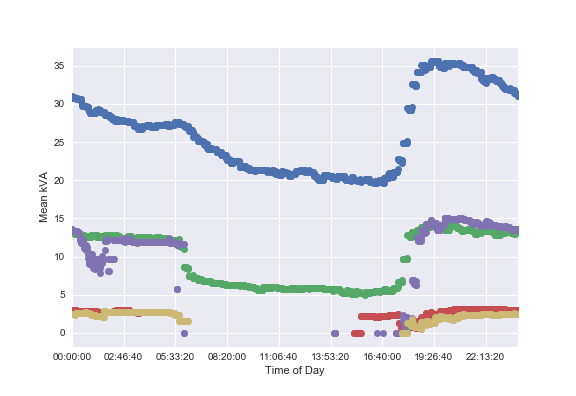
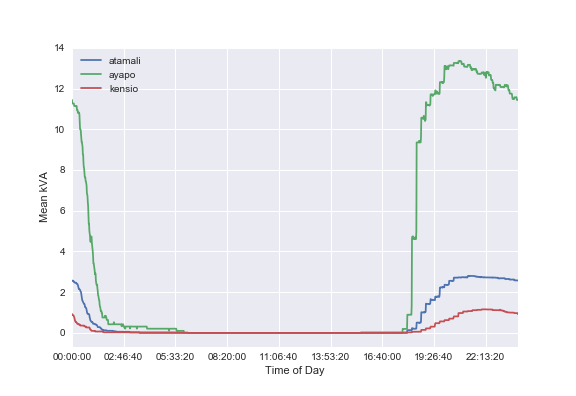
updates plots and outline

Changed region(s): [[0.0938, 0.1515, 0.9062, 0.8485], [0.0938, 0.1515, 0.125, 0.1818], [0.0938, 0.0909, 0.125, 0.1212]]

diff --git a/outline.md b/outline.md
@@ -141,6 +141,7 @@ author: Daniel Soto
     - Specification sheets report fuel use at 25%, 50%, 75%, and 100% of the full load.
     - We assume a linear relationship between fuel use and generator load.
     - We take the published curves for fuel use and extrapolate to the low loads observed on microgrids
+    - We divide the fuel rate by the apparent power to get the instantaneous specific fuel consumption
     - Using these fits, we can create a time series of fuel rates from the observed load data
     - Following the method used to construct a load duration curve, we create a specific fuel consumption duration curve
     - This curve has the specific fuel consumption in liters per kVA-hour as the independent variable
@@ -157,17 +158,113 @@ author: Daniel Soto
 
 ## Data Coverage
 
-- The data cover from two to three months in the villages.
-    - While there are gaps in the data, there is valid data for at least 86% of the time in all villages.
+- We have confidence in the data for 86% to 93% of the observation period for the microgrids
+    - The data cover from two to three months in the villages.
+    - We have direct time series measurements for 9 to 23 percent of the observation period
+    - We have messages indicating the grid going off and back on that bring coverage up to 86 to 93 percent.
     - We have no robust way of the presence or absence of power in the data gaps with the data set available.
 
-| Village   | Start Date | End Date   |   Duration |   Coverage |
-|:----------|:-----------|:-----------|-----------:|-----------:|
-| Atamali   | 2015-04-24 | 2015-08-26 |   124.065  |   0.863161 |
-| Ayapo     | 2015-04-22 | 2015-08-27 |   127.433  |   0.904552 |
-| Kensio    | 2015-05-11 | 2015-08-21 |   102.194  |   0.92657  |
 
-<!-- SI_missing_data -->
+| Village   |   Duration (days) |   Percent data |   Percent known downtime |   Total Coverage |
+|:----------|------------------:|---------------:|-------------------------:|-----------------:|
+| atamali   |           124.065 |      0.1904    |                 0.67276  |         0.863161 |
+| ayapo     |           127.433 |      0.232502  |                 0.672051 |         0.904552 |
+| kensio    |           102.194 |      0.0893443 |                 0.837226 |         0.92657  |
+
+<!-- SI_data_integrity -->
+
+## Electricity Energy Consumption
+
+- TODO: this section can't be finished until energy zero insertion is implemented and tested
+- TODO: revise cumulative distribution plot for daily energy consumption to include zero insertion
+- TODO: create a table with village, mean kWh per day operating, mean kWh all time, number of connections
+- TODO: decide if on presenting per household and per capita
+
+
+- We report on daily electricity energy consumption
+    - daily energy on days of operation
+    - daily energy over entire valid observation period
+
+![](./plots/daily_energy_CDF.png)
+
+
+|         |   days observed |   mean kWh per day |   median kWh per day |
+|:--------|----------------:|-------------------:|---------------------:|
+| Atamali |             110 |           15.0545  |                 16   |
+| Ayapo   |             117 |           84.9829  |                 95   |
+| Kensio  |              98 |            5.31633 |                  1.5 |
+
+|         |   days observed |   mean kWh per day per household |   median kWh per day per housheold |
+|:--------|----------------:|---------------------------------:|-----------------------------------:|
+| Atamali |             110 |                         0.376364 | 0.4     |
+| Ayapo   |             117 |                         0.825077 | 0.92233 |
+| Kensio  |              98 |                         0.265816 | 0.075   |
+
+## Power Consumption
+
+- TODO: clean up date axis on hourly_kVA.png
+- TODO: create time series percentile plot for hourly profile
+- TODO: table (mean kVA, rated kVA, percent of load, number HH, mean kVA per household)
+
+- We report on the apparent power consumption in these microgrids
+    - The mean loads are 2.2, 2.8, and 13 kVA
+    - All of these are well below 50% of the rated load of the generator
+    - The most well-matched microgrid is operating at 32% of the rated load and one grid is only at 6% of the load.
+    - There are relatively small fluctuations in operating load during the evening
+    - The microgrids have an evening peak as well, but aren't running during the day.
+    - We display the averaged power profile for the three microgrids
+    - We display a load duration curve
+    - The load duration curve for the microgrids shows one broad level of power demand.
+    - It also shows long durations of no power delivery.
+
+![](./plots/hourly_kVA.png)
+
+![](./plots/load_duration_curve.png)
+
+Table: Total and per connection apparent power
+
+|    |   HH |   kVA factor |   max kVA |   max kVA per HH |   mean kVA |   mean kVA per HH | village   |
+|---:|-----:|-------------:|----------:|-----------------:|-----------:|------------------:|:----------|
+|  0 |   40 |     0.73535  |     3.884 |         0.0971   |    2.8561  |         0.0714024 | atamali   |
+|  1 |  103 |     0.767282 |    17.041 |         0.165447 |   13.0753  |         0.126944  | ayapo     |
+|  2 |   20 |     0.690428 |     3.253 |         0.16265  |    2.24596 |         0.112298  | kensio    |
+
+Table: Generator Utilization
+
+|         |     mean |   rating (kVA) |   percent genset load |
+|:--------|---------:|---------------:|----------------------:|
+| Atamali |  2.8561  |             25 |             0.114244  |
+| Ayapo   | 13.0753  |             40 |             0.326881  |
+| Kensio  |  2.24596 |             35 |             0.0641703 |
+
+
+## Microgrid Marginal Cost
+
+- data sheet fuel consumption per hour
+TODO: table (village, fuel consumption per hour at 100%, 50%, operating point)
+
+- ideal specific fuel consumption
+- ideal specific fuel consumption duration curve
+- observed nightly fuel consumption
+- observed specific fuel consumption
+
+TODO: table (village, specific fuel consumption at 100%, 50%, mean operating point, observed SFC)
+
+- The figure shows the ideal specific fuel consumption.
+    - It assumes the fuel consumption matches the data sheet
+    - In practice, we expect wear and tear to reduce the efficiency of the generator.
+
+TODO: create table (village, genset rating, expected SFC, observed SFC)
+
+- Observations of fuel consumption are from operator reports
+    - Atamali reports 30 liters per night for its 25 kVA genset to deliver 15 kWh
+    - This results in a specific fuel consumption of 2 liters per kWh.
+    - Ayapo reports 60 liters per night for its 40 kVA genset to deliver 85 kWh
+    - This is a specific fuel consumption of 710 ml per kWh, well above predicted.
+    - At 1 USD per liter for diesel, this is a marginal cost of 0.70 USD and 2 USD per kWh
+
+![](./plots/specific_fuel_consumption_duration.png)
+
 
 ## Microgrid Uptime
 
@@ -192,117 +289,6 @@ author: Daniel Soto
 <!-- TODO: is there any literature on microgrid uptimes? -->
 <!-- TODO: what is a more specific way than uptime to show the deviation from a promised schedule? -->
 
-## Electricity Energy Consumption
-
-<!-- TODO: is this subsection relevant to the marginal cost? -->
-
-- grid locations have higher per capita electricity consumptions per day than
-- the microgrid
-
-- we compare the per capita electricity consumptions to the Indonesia and Papua
-- averages published by ADB/IISD/PLN
-
-- In 2013, PLN reported 218 kWh sold per capita per year.
-    - reported 3.9 persons per household
-- Assuming each connection is a typical household, we can estimate the per capita electricity usage at above 1 kWh per capita per day for the grid-connected regions and 0.2 kWh or below for the microgrid regions.
-
-- Grid locations have much higher (on the order of 10x) greater mean electricity consumption per household.
-- Two of the microgrids had much larger maximum consumption days than the median.
-
-
-
-|         |   days observed |   mean kWh per day |   median kWh per day |
-|:--------|----------------:|-------------------:|---------------------:|
-| Ajau    |             129 |          600.388   |                609   |
-| Asei    |              78 |          180.038   |                186   |
-| Atamali |             110 |           15.0545  |                 16   |
-| Ayapo   |             117 |           84.9829  |                 95   |
-| Kensio  |              98 |            5.31633 |                  1.5 |
-
-|         |   days observed |   mean kWh per day per household |   median kWh per day per housheold |
-|:--------|----------------:|---------------------------------:|-----------------------------------:|
-| Ajau    |             129 |                         4.96188  | 5.03306 |
-| Asei    |              78 |                         5.45571  | 5.63636 |
-| Atamali |             110 |                         0.376364 | 0.4     |
-| Ayapo   |             117 |                         0.825077 | 0.92233 |
-| Kensio  |              98 |                         0.265816 | 0.075   |
-
-<!-- TODO: are the variations in consumption due to constrained supply? -->
-<!-- TODO: how do we get statistics on a day with good access? -->
-<!-- TODO: how does the max kWh per day per household compare? -->
-<!-- TODO: find and cite the per capita electricity consumption -->
-<!-- TODO: use boxplot or something to get better indication of statistics -->
-<!-- TODO: where can I find village populations? Did Joshua Ferrer do this? -->
-<!-- TODO: how do both of the per capita electricity consumption estimates compare to the published Indo values. -->
-
-## Power Consumption
-
-![](./plots/hourly_kVA.png)
-
-- The hourly power profiles show an early evening peak for the grids as well as a minimum during the day.
-- The microgrids have an evening peak as well, but aren't running during the day.
-
-![](./plots/load_duration_curve.png)
-
-- The load duration curve shows the grids to have three discernible levels of power demand.
-
-- The load duration curve for the microgrids shows one broad level of power demand.
-    - It also shows much longer durations of no power.
-
-|         |     mean |   rating (kVA) |   percent genset load |
-|:--------|---------:|---------------:|----------------------:|
-| Atamali |  2.8561  |             25 |             0.114244  |
-| Ayapo   | 13.0753  |             40 |             0.326881  |
-| Kensio  |  2.24596 |             35 |             0.0641703 |
-
-The microgrids are operating well below the rated load of the generators.
-The most well-matched microgrid is operating at 32% of the rated load and one grid is only at 6% of the load.
-Operation of the generators at an inefficient operating point wastes diesel fuel and drives up operating costs.
-Newer
-
-<!-- Q: Do we have access to records of the fuel consumption rate in the microgrids? -->
-
-The microgrids are operating well below the rated load of the generators.
-The most well-matched microgrid is operating at 32% of the rated load and one grid is only at 6% of the load.
-Operation of the generators at an inefficient operating point wastes diesel fuel and drives up operating costs.
-
-<!-- Q: Do we have access to records of the fuel consumption rate in the microgrids? -->
-
-## Load Factor
-
-- we report the peak power per capita on the microgrids and normal grids
-    - the ratio of the average power to the peak power on the line-fed grids is 0.59 and 0.51.
-    - the load factor is higher, 0.70 -- 0.76 in the microgrids.  Since the grid isn't available during the low demand hours, the average load is closer to the peak load.
-
-<!-- Q: how can we estimate the extra revenue required to get to full SAIDI for microgrids? -->
-
-## Microgrid Marginal Cost
-
-- Operating a diesel generator at a power load well below its designed operating point leads to inefficient operation.
-    - This inefficiency increases fuel cost per unit of energy generated.
-    - Ayapo retains a reasonable fuel rate close to the designed operation of the generator.
-    - Atamali and Kensio with average loads at 11 and 6 percent of the design have theoretical specific fuel consumptions (SFC) of 460 ml per kVA-hour and 970 ml per kVA-hour.
-    - This operation could increase wear and tear on the generator, increasing maintenance costs and downtime.
-
-- The operating costs are well above the tariffs
-    - Customers pay 5 cents or less per kWh and many meters don't function
-    - The observed marginal costs due to fuel well exceed this
-
-- The figure shows the ideal specific fuel consumption.
-    - It assumes the fuel consumption matches the data sheet
-    - In practice, we expect wear and tear to reduce the efficiency of the generator.
-
-- The observed average specific fuel consumption can be estimated from fuel logs.
-    - Atamali fuel logs show 30 liters of fuel being used each day.
-    - The mean kWh per day on days where the grid operates is 15 kWh.
-    - This results in a specific fuel consumption of 2 liters per kWh.
-    - This is far above the our ideal fuel consumption estimate for Atamali.
-    - At 1 USD per liter for diesel, this is a marginal cost of 2 USD per kWh
-    - Tariffs in the area are below 5 cents per kWh so the electricity is almost completely subsidized
-
-![](./plots/specific_fuel_consumption_duration.png)
-
-
 
 # Discussion
 
@@ -319,7 +305,23 @@ Operation of the generators at an inefficient operating point wastes diesel fuel
     - The second average is the actual electricity delivered.
     - The difference between these two provides a measure of latent demand.
 
+- we compare the per capita electricity consumptions to the Indonesia and Papua
+- averages published by ADB/IISD/PLN
 
+Operation of the generators at an inefficient operating point wastes diesel fuel and drives up operating costs.
+
+- Operating a diesel generator at a power load well below its designed operating point leads to inefficient operation.
+    - This inefficiency increases fuel cost per unit of energy generated.
+    - Ayapo retains a reasonable fuel rate close to the designed operation of the generator.
+    - Atamali and Kensio with average loads at 11 and 6 percent of the design have theoretical specific fuel consumptions (SFC) of 460 ml per kVA-hour and 970 ml per kVA-hour.
+    - This operation could increase wear and tear on the generator, increasing maintenance costs and downtime.
+
+- The operating costs are well above the tariffs
+    - Customers pay 5 cents or less per kWh and many meters don't function
+    - The observed marginal costs due to fuel well exceed this
+
+- This is far above the our ideal fuel consumption estimate for Atamali.
+- Tariffs in the area are below 5 cents per kWh so the electricity is almost completely subsidized
 
 # Conclusion
 
